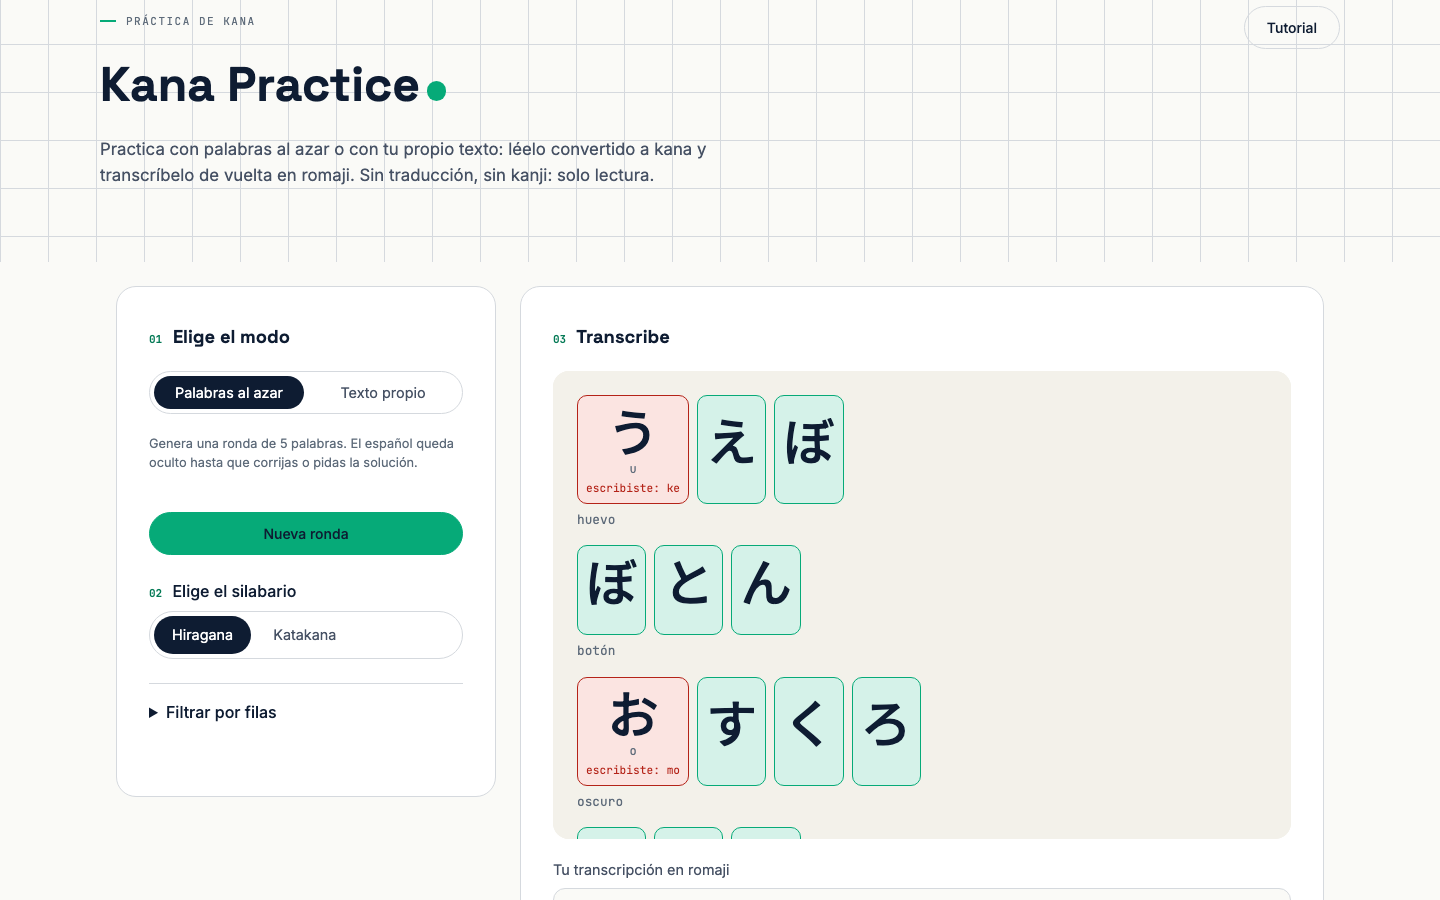
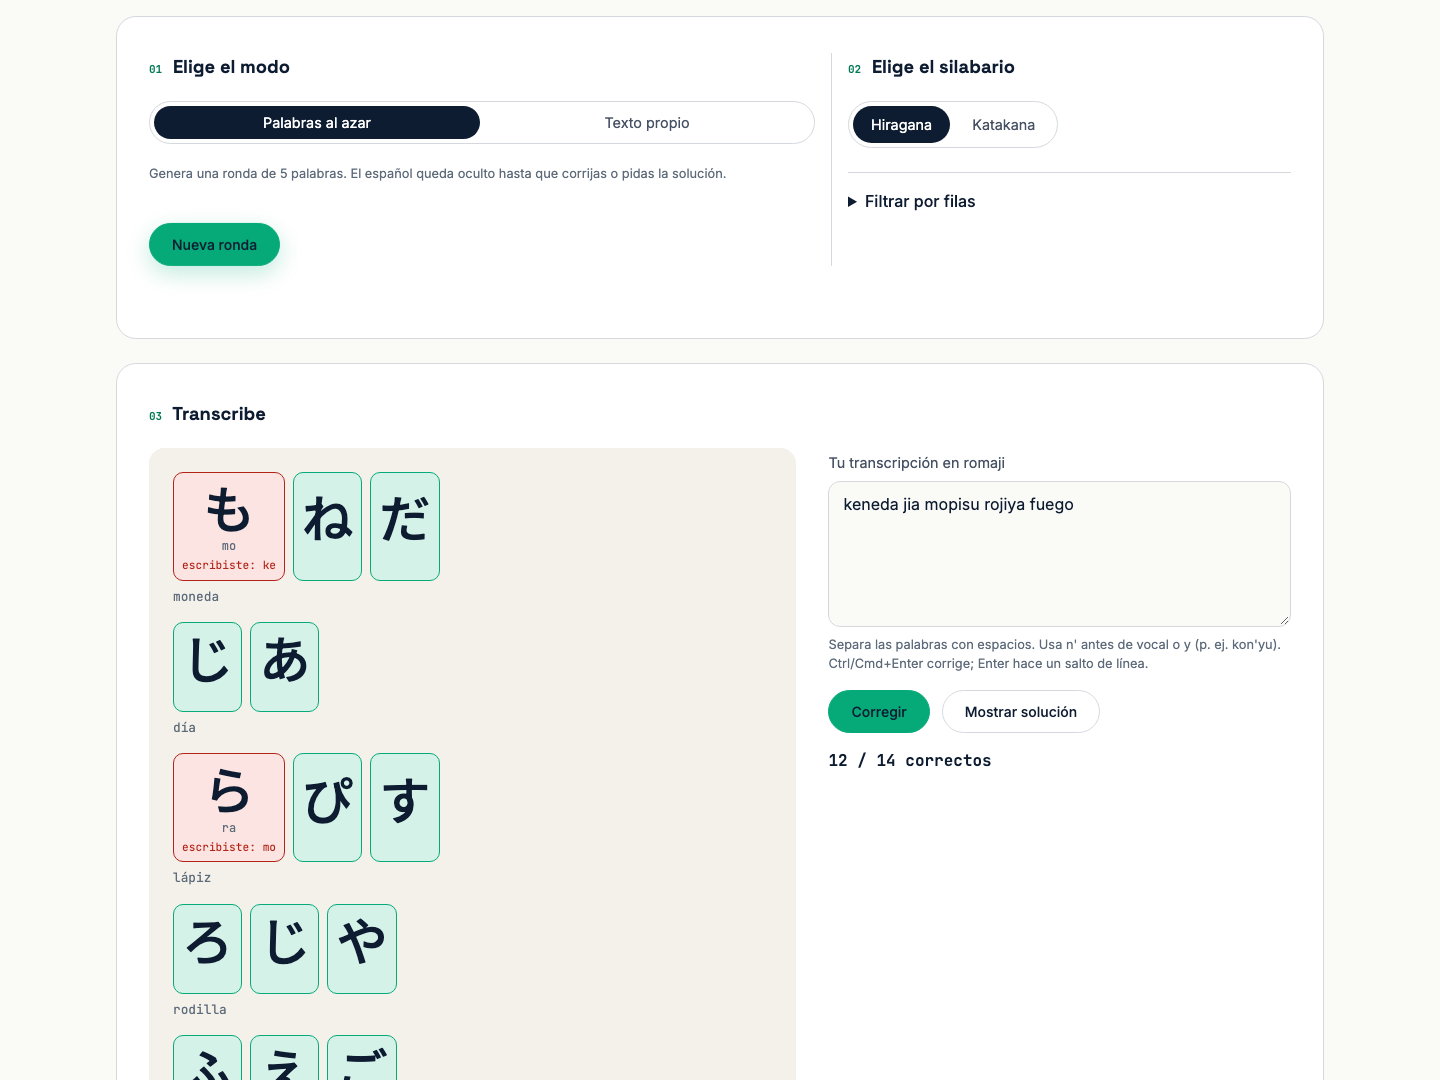
feat: nueva distribución (modo y silabario arriba; kana y respuesta en dos columnas) con capturas y tests actualizados

diff --git a/index.html b/index.html
@@ -24,46 +24,49 @@
   </header>
 
   <main class="layout">
-    <div class="workspace">
-    <section class="panel controls" aria-labelledby="controls-heading">
-      <h2 id="controls-heading"><span class="cap-num">01</span> Elige el modo</h2>
+    <section class="panel top-panel" aria-label="Configuración de la práctica">
+      <div class="top-grid">
+        <div class="top-col top-col--mode">
+          <h2><span class="cap-num">01</span> Elige el modo</h2>
 
-      <div class="segmented mode-tabs" role="tablist" aria-label="Modo de práctica">
-        <button type="button" role="tab" id="tab-random" data-testid="tab-random" class="segmented__option segmented__option--tab is-checked" aria-selected="true" aria-controls="panel-random" tabindex="0">Palabras al azar</button>
-        <button type="button" role="tab" id="tab-text" data-testid="tab-text" class="segmented__option segmented__option--tab" aria-selected="false" aria-controls="panel-text" tabindex="-1">Texto propio</button>
-      </div>
+          <div class="segmented mode-tabs" role="tablist" aria-label="Modo de práctica">
+            <button type="button" role="tab" id="tab-random" data-testid="tab-random" class="segmented__option segmented__option--tab is-checked" aria-selected="true" aria-controls="panel-random" tabindex="0">Palabras al azar</button>
+            <button type="button" role="tab" id="tab-text" data-testid="tab-text" class="segmented__option segmented__option--tab" aria-selected="false" aria-controls="panel-text" tabindex="-1">Texto propio</button>
+          </div>
 
-      <div id="panel-random" data-testid="panel-random" role="tabpanel" aria-labelledby="tab-random" class="mode-panel">
-        <p class="field-hint">Genera una ronda de 5 palabras. El español queda oculto hasta que corrijas o pidas la solución.</p>
-        <button type="button" id="btn-new-round" data-testid="btn-new-round" class="btn btn-primary btn-generate">Nueva ronda</button>
-      </div>
+          <div id="panel-random" data-testid="panel-random" role="tabpanel" aria-labelledby="tab-random" class="mode-panel">
+            <p class="field-hint">Genera una ronda de 5 palabras. El español queda oculto hasta que corrijas o pidas la solución.</p>
+            <button type="button" id="btn-new-round" data-testid="btn-new-round" class="btn btn-primary btn-generate">Nueva ronda</button>
+          </div>
 
-      <div id="panel-text" data-testid="panel-text" role="tabpanel" aria-labelledby="tab-text" class="mode-panel" hidden>
-        <div class="field">
-          <label for="input-text">Tu texto en español</label>
-          <textarea id="input-text" data-testid="input-text" rows="8" placeholder="Escribe o pega un texto en español, con los saltos de línea que quieras..."></textarea>
+          <div id="panel-text" data-testid="panel-text" role="tabpanel" aria-labelledby="tab-text" class="mode-panel" hidden>
+            <div class="field">
+              <label for="input-text">Tu texto en español</label>
+              <textarea id="input-text" data-testid="input-text" rows="4" placeholder="Escribe o pega un texto en español, con los saltos de línea que quieras..."></textarea>
+            </div>
+            <button type="button" id="btn-generate" data-testid="btn-generate" class="btn btn-primary btn-generate">Generar</button>
+          </div>
         </div>
-        <button type="button" id="btn-generate" data-testid="btn-generate" class="btn btn-primary btn-generate">Generar</button>
-      </div>
 
-      <div class="field syllabary-select">
-        <span class="field-label"><span class="cap-num">02</span> Elige el silabario</span>
-        <div class="segmented" role="radiogroup" aria-label="Silabario">
-          <label class="segmented__option">
-            <input type="radio" name="silabario" value="hiragana" data-testid="syllabary-hiragana" checked />
-            <span>Hiragana</span>
-          </label>
-          <label class="segmented__option">
-            <input type="radio" name="silabario" value="katakana" data-testid="syllabary-katakana" />
-            <span>Katakana</span>
-          </label>
+        <div class="top-col top-col--syllabary">
+          <h2><span class="cap-num">02</span> Elige el silabario</h2>
+          <div class="segmented" role="radiogroup" aria-label="Silabario">
+            <label class="segmented__option">
+              <input type="radio" name="silabario" value="hiragana" data-testid="syllabary-hiragana" checked />
+              <span>Hiragana</span>
+            </label>
+            <label class="segmented__option">
+              <input type="radio" name="silabario" value="katakana" data-testid="syllabary-katakana" />
+              <span>Katakana</span>
+            </label>
+          </div>
+
+          <details class="row-filter">
+            <summary>Filtrar por filas</summary>
+            <div id="row-chips" class="chip-grid"></div>
+          </details>
         </div>
       </div>
-
-      <details class="row-filter">
-        <summary>Filtrar por filas</summary>
-        <div id="row-chips" class="chip-grid"></div>
-      </details>
 
       <div id="message" data-testid="message" class="message" role="status" aria-live="polite"></div>
     </section>
@@ -71,25 +74,29 @@
     <section class="panel practice" aria-labelledby="practice-heading">
       <h2 id="practice-heading"><span class="cap-num">03</span> Transcribe</h2>
 
-      <div id="kana-output" data-testid="kana-output" class="kana-output" aria-live="polite">
-        <p class="kana-output__empty">Genera una práctica para ver el kana aquí.</p>
+      <div class="practice-grid">
+        <div class="kana-pane">
+          <div id="kana-output" data-testid="kana-output" class="kana-output" aria-live="polite">
+            <p class="kana-output__empty">Genera una práctica para ver el kana aquí.</p>
+          </div>
+        </div>
+
+        <div class="answer-pane">
+          <form id="answer-form" class="answer-form" autocomplete="off">
+            <div class="field">
+              <label for="input-answer">Tu transcripción en romaji</label>
+              <textarea id="input-answer" data-testid="input-answer" rows="6" autocomplete="off"></textarea>
+              <p class="field-hint">Separa las palabras con espacios. Usa n' antes de vocal o y (p. ej. kon'yu). Ctrl/Cmd+Enter corrige; Enter hace un salto de línea.</p>
+            </div>
+            <div class="actions">
+              <button type="submit" id="btn-check" data-testid="btn-check" class="btn btn-primary">Corregir</button>
+              <button type="button" id="btn-solution" data-testid="btn-solution" class="btn btn-ghost">Mostrar solución</button>
+            </div>
+          </form>
+          <p id="score" data-testid="score" class="score"></p>
+        </div>
       </div>
-
-      <form id="answer-form" class="answer-form" autocomplete="off">
-        <div class="field">
-          <label for="input-answer">Tu transcripción en romaji</label>
-          <textarea id="input-answer" data-testid="input-answer" rows="3" autocomplete="off"></textarea>
-          <p class="field-hint">Separa las palabras con espacios. Usa n' antes de vocal o y (p. ej. kon'yu). Ctrl/Cmd+Enter corrige; Enter hace un salto de línea.</p>
-        </div>
-        <div class="actions">
-          <button type="submit" id="btn-check" data-testid="btn-check" class="btn btn-primary">Corregir</button>
-          <button type="button" id="btn-solution" data-testid="btn-solution" class="btn btn-ghost">Mostrar solución</button>
-        </div>
-      </form>
-      <p id="score" data-testid="score" class="score"></p>
     </section>
-
-    </div>
 
     <section class="panel stats-panel" id="stats-panel" data-testid="stats-panel" aria-labelledby="stats-heading">
       <h2 id="stats-heading">Mis estadísticas</h2>

diff --git a/tests/e2e/longtext.spec.js b/tests/e2e/longtext.spec.js
@@ -73,7 +73,7 @@ test('texto largo: #kana-output tiene altura máxima y scroll interno', async ({
   });
   expect(m.overflowY).toBe('auto');
   expect(m.sh).toBeGreaterThan(m.ch);
-  const expectedMax = m.vw >= 1024 ? Math.min(0.52 * m.vh, 520) : 0.42 * m.vh;
+  const expectedMax = m.vw >= 1024 ? Math.min(m.vh - 140, 720) : 0.42 * m.vh;
   expect(Math.abs(m.maxH - expectedMax)).toBeLessThanOrEqual(1);
 });
 
@@ -140,23 +140,84 @@ test('tras corregir o mostrar la solución no hay celda is-current', async ({ pa
   await expect(current(page)).toHaveCount(0);
 });
 
-test('el panel de práctica no se solapa con las estadísticas al bajar hasta el final', async ({ page }) => {
+const rect = (page, sel) =>
+  page.locator(sel).first().evaluate((el) => {
+    const r = el.getBoundingClientRect();
+    return { top: r.top, bottom: r.bottom, left: r.left, right: r.right };
+  });
+const isDesktop = (page) => page.viewportSize().width >= 1024;
+
+test('.answer-pane es sticky solo en ≥1024px y nunca se solapa con estadísticas', async ({ page }) => {
   await h.generate(page, LONG_TEXT);
   await h.answer(page, 'eru aumento deru'); // llena el panel de estadísticas
   await expect(page.getByTestId('stats-cell').first()).toBeVisible();
-  const positions = [0, 0.25, 0.5, 0.75, 1];
-  for (const p of positions) {
+  for (const p of [0, 0.25, 0.5, 0.75, 1]) {
     await page.evaluate((f) => window.scrollTo(0, f * (document.documentElement.scrollHeight - innerHeight)), p);
-    const { practiceBottom, statsTop } = await page.evaluate(() => ({
-      practiceBottom: document.querySelector('.practice').getBoundingClientRect().bottom,
-      statsTop: document.querySelector('.stats-panel').getBoundingClientRect().top,
-    }));
-    expect(practiceBottom, `scroll ${p * 100}%`).toBeLessThanOrEqual(statsTop + 0.5);
+    const answerPane = await rect(page, '.answer-pane');
+    const practice = await rect(page, '.practice');
+    const stats = await rect(page, '.stats-panel');
+    expect(answerPane.bottom, `answer-pane, scroll ${p * 100}%`).toBeLessThanOrEqual(stats.top + 0.5);
+    expect(practice.bottom, `practice, scroll ${p * 100}%`).toBeLessThanOrEqual(stats.top + 0.5);
   }
-  const position = await page.locator('.practice').evaluate((el) => getComputedStyle(el).position);
-  expect(position).toBe(page.viewportSize().width >= 1024 ? 'sticky' : 'static');
-  await expect(page.locator('.workspace .practice')).toHaveCount(1);
-  await expect(page.locator('.workspace .controls')).toHaveCount(1);
+  const pos = (sel) => page.locator(sel).evaluate((el) => getComputedStyle(el).position);
+  expect(await pos('.answer-pane')).toBe(isDesktop(page) ? 'sticky' : 'static');
+  expect(await pos('.practice')).toBe('static');
+  await expect(page.locator('.workspace')).toHaveCount(0);
+  await expect(page.locator('.practice .practice-grid .kana-pane #kana-output')).toHaveCount(1);
+  await expect(page.locator('.practice .practice-grid .answer-pane #input-answer')).toHaveCount(1);
+  await expect(page.locator('.practice .answer-pane #score')).toHaveCount(1);
+});
+
+test('kana y respuesta lado a lado en ≥1024px, apilados en <1024px', async ({ page }) => {
+  await h.generate(page, LONG_TEXT);
+  await page.locator('.practice').scrollIntoViewIfNeeded();
+  const kana = await rect(page, '#kana-output');
+  const input = await rect(page, '#input-answer');
+  if (isDesktop(page)) {
+    expect(input.left, 'respuesta a la derecha del kana').toBeGreaterThanOrEqual(kana.right);
+    expect(input.top < kana.bottom && input.bottom > kana.top, 'rangos verticales solapados').toBe(true);
+  } else {
+    expect(input.top, 'respuesta debajo del kana').toBeGreaterThanOrEqual(kana.bottom);
+  }
+  const m = await page.getByTestId('input-answer').evaluate((el) => ({
+    rows: el.rows,
+    maxH: parseFloat(getComputedStyle(el).maxHeight),
+    vh: innerHeight,
+  }));
+  expect(m.rows).toBe(6);
+  expect(Math.abs(m.maxH - (isDesktop(page) ? 0.5 : 0.3) * m.vh)).toBeLessThanOrEqual(1);
+});
+
+test('1440x900: tras ir a la sección 03 con texto largo, kana y respuesta visibles a la vez', async ({ page }, testInfo) => {
+  await page.setViewportSize({ width: 1440, height: 900 });
+  await h.generate(page, LONG_TEXT);
+  await page.locator('#practice-heading').evaluate((el) => el.scrollIntoView({ block: 'start' }));
+  await page.getByTestId('input-answer').click();
+  await page.getByTestId('input-answer').pressSequentially('eru aumento');
+  await testInfo.attach('seccion-03-1440', { body: await page.screenshot(), contentType: 'image/png' });
+  const vh = 900;
+  const kana = await rect(page, '#kana-output');
+  const input = await rect(page, '#input-answer');
+  const btn = await rect(page, '[data-testid="btn-check"]');
+  expect(kana.top).toBeGreaterThanOrEqual(0);
+  expect(kana.bottom).toBeLessThanOrEqual(vh);
+  expect(input.top).toBeGreaterThanOrEqual(0);
+  expect(input.bottom).toBeLessThanOrEqual(vh);
+  expect(btn.bottom).toBeLessThanOrEqual(vh);
+  await expect(page.locator('#kana-output .kana-cell.is-current')).toBeInViewport();
+});
+
+test('top-panel: 01 (modo) y 02 (silabario) en la misma fila en ≥1024px, apilados debajo', async ({ page }) => {
+  const mode = await rect(page, '.top-panel .top-col--mode');
+  const syl = await rect(page, '.top-panel .top-col--syllabary');
+  if (isDesktop(page)) {
+    expect(syl.left).toBeGreaterThanOrEqual(mode.right - 16.5); // margin-left -16px del borde divisor
+    expect(Math.abs(syl.top - mode.top)).toBeLessThanOrEqual(1);
+  } else {
+    expect(syl.top).toBeGreaterThanOrEqual(mode.bottom);
+  }
+  await expect(page.locator('.top-panel h2', { hasText: '01' })).toBeVisible();
+  await expect(page.locator('.top-panel h2', { hasText: '02' })).toBeVisible();
 });
 
 test('pie: solo "Código en GitHub", sin mención a 2DATO', async ({ page }) => {

diff --git a/style.css b/style.css
@@ -147,7 +147,7 @@ button {
 /* --- layout general --- */
 
 .site-header {
-  padding: clamp(2.5rem, 4vw, 4rem) 16px;
+  padding: clamp(1.5rem, 2.5vw, 2.5rem) 16px;
 }
 
 .site-header__inner {
@@ -183,19 +183,23 @@ button {
   gap: 24px;
 }
 
-/* Controles + práctica van en su propio grid para que el panel sticky
-   de práctica no se desplace sobre las estadísticas. */
-.workspace {
+/* Barra superior: modo (01) + silabario (02) en una sola tarjeta, dos columnas
+   en escritorio con separador vertical sutil. */
+.top-grid {
   display: grid;
   grid-template-columns: 1fr;
-  gap: 24px;
-  min-width: 0;
+  gap: 32px;
 }
 
 @media (min-width: 1024px) {
-  .workspace {
-    grid-template-columns: minmax(320px, 380px) 1fr;
-    align-items: start;
+  .top-grid {
+    grid-template-columns: minmax(0, 1.5fr) minmax(0, 1fr);
+  }
+
+  .top-col--syllabary {
+    margin-left: -16px;
+    padding-left: 16px;
+    border-left: 1px solid var(--navy-15);
   }
 }
 
@@ -248,10 +252,6 @@ input[type='text'] {
 textarea:focus,
 input[type='text']:focus {
   border-color: var(--green);
-}
-
-.syllabary-select {
-  margin-top: 24px;
 }
 
 .segmented {
@@ -372,12 +372,38 @@ input[type='text']:focus {
   width: 100%;
 }
 
+@media (min-width: 1024px) {
+  .btn-generate {
+    width: auto;
+  }
+}
+
 /* --- práctica --- */
+
+.practice-grid {
+  display: grid;
+  grid-template-columns: 1fr;
+  gap: 24px;
+  align-items: start;
+}
+
+@media (min-width: 1024px) {
+  .practice-grid {
+    grid-template-columns: minmax(0, 1.4fr) minmax(0, 1fr);
+    gap: 32px;
+  }
+
+  .answer-pane {
+    position: sticky;
+    top: 16px;
+    align-self: start;
+  }
+}
 
 .kana-output {
   position: relative;
   min-height: 120px;
-  max-height: min(52vh, 520px);
+  max-height: min(calc(100vh - 140px), 720px);
   overflow-y: auto;
   overscroll-behavior: contain;
   display: flex;
@@ -386,7 +412,6 @@ input[type='text']:focus {
   padding: 24px;
   background: var(--paper-2);
   border-radius: 16px;
-  margin-bottom: 20px;
 }
 
 @media (max-width: 1023px) {
@@ -428,14 +453,6 @@ input[type='text']:focus {
 
 .kana-output.is-compact .kana-line {
   gap: 10px 14px;
-}
-
-@media (min-width: 1024px) {
-  .practice {
-    position: sticky;
-    top: 16px;
-    align-self: start;
-  }
 }
 
 .kana-output__empty {
@@ -539,6 +556,12 @@ input[type='text']:focus {
 
 #input-answer {
   max-height: 30vh;
+}
+
+@media (min-width: 1024px) {
+  #input-answer {
+    max-height: 50vh;
+  }
 }
 
 .actions {

diff --git a/README.md b/README.md
@@ -32,6 +32,11 @@ español al japonés fonéticamente.
 4. Pulsa **Corregir** (o Ctrl/Cmd+Enter) para ver el resultado kana por kana, o **Mostrar
    solución** para revelar la respuesta completa sin que cuente en las estadísticas.
 
+En pantallas de escritorio, la barra superior agrupa el modo (01) y el silabario (02) en
+horizontal, y debajo la sección **Transcribe** (03) muestra el kana a la izquierda y tu
+respuesta a la derecha, lado a lado. En pantallas angostas, estos bloques se apilan uno debajo
+del otro.
+
 <table>
 <tr>
 <th>Palabras al azar</th>
